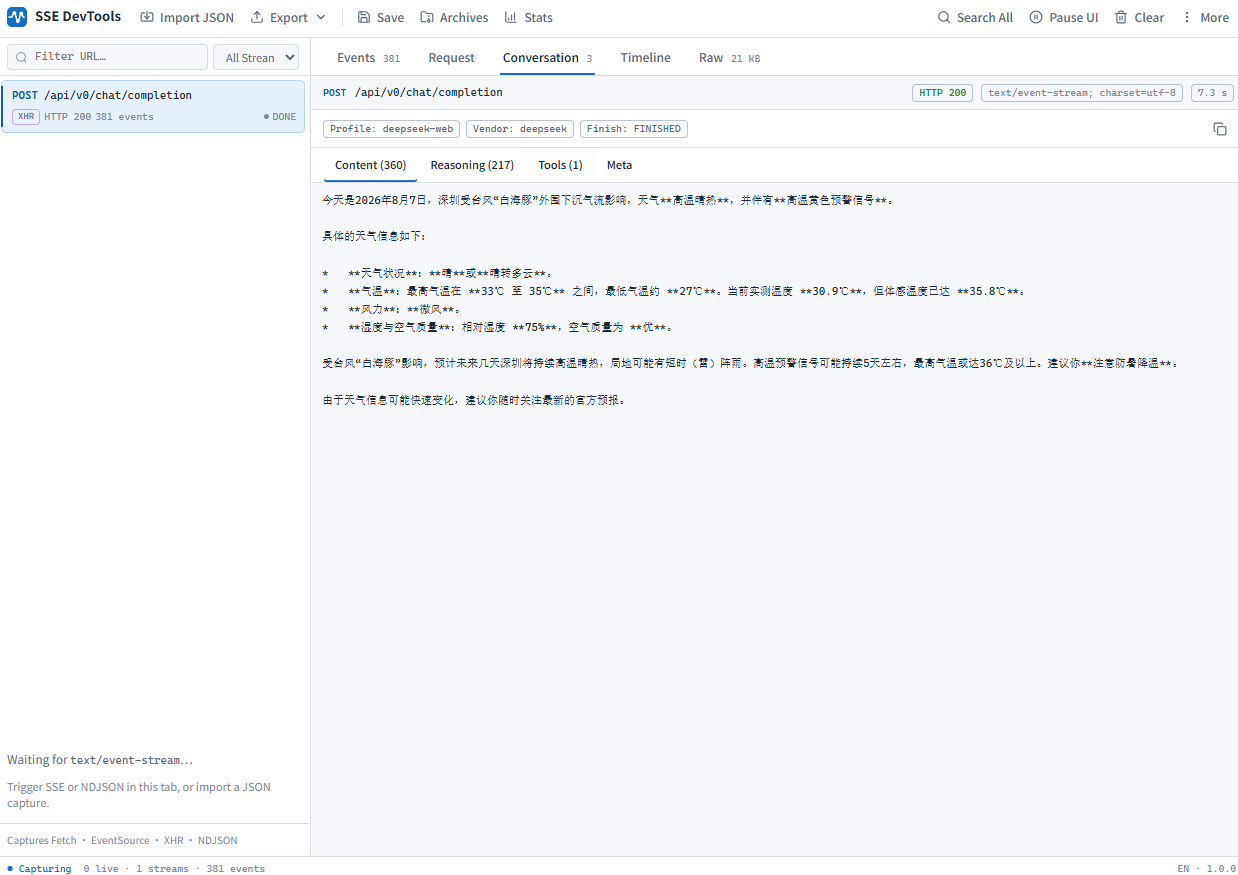
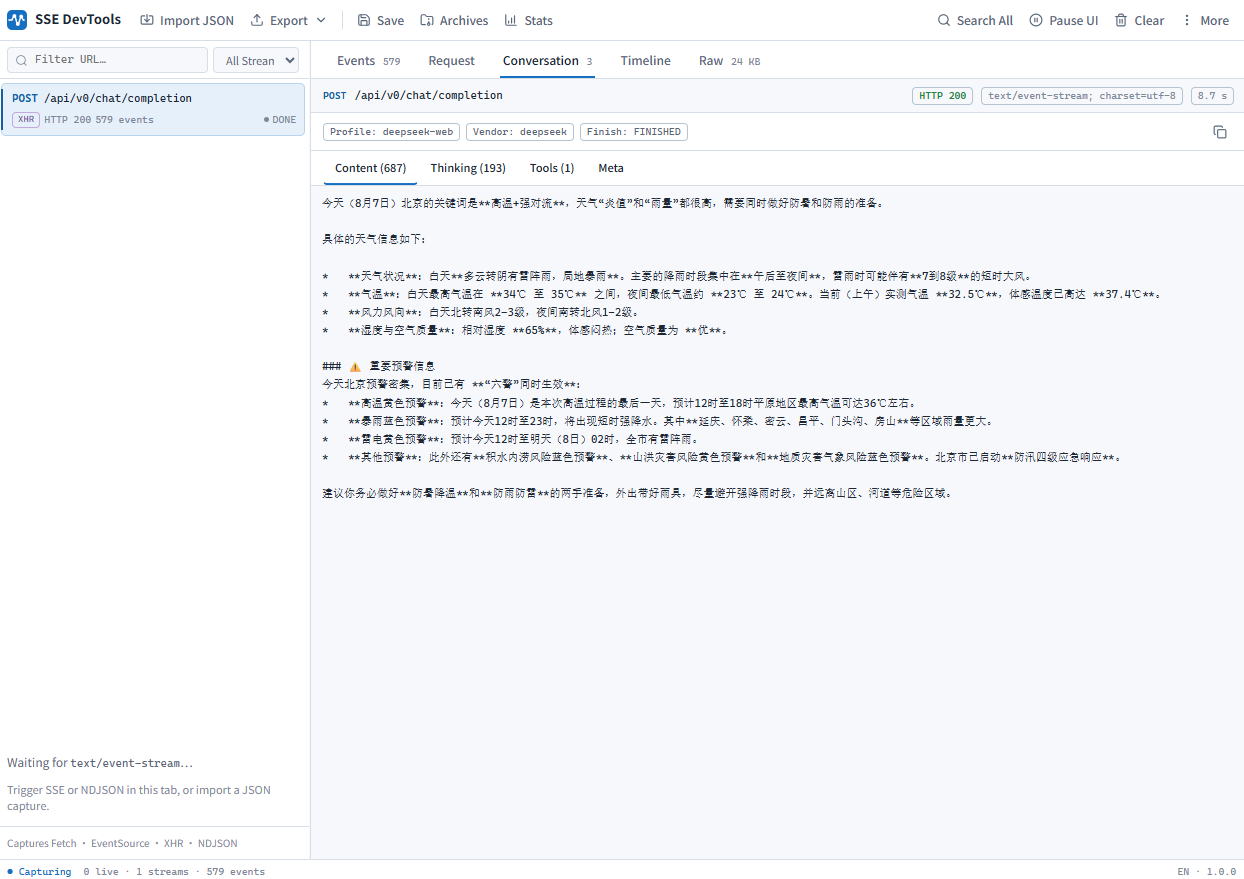
docs(readme): add Conversation think and tools screenshots
Split content / thinking / tools shots in README and refresh the screenshot checklist.

diff --git a/README.md b/README.md
@@ -177,18 +177,16 @@ Chrome Network 对**标准 SSE**已有请求详情里的 [EventStream](https://d
 - 国内主流 AI 网页与 OpenAI 兼容协议大多能合并（见下方[支持矩阵](#已支持的-ai-web-厂商)）
 
 <p align="center">
-  <img width="1200" alt="对话 正文 / 思考（待补图）" src="docs/assets/screenshots/tab-conversation-content.png">
+  <img width="1200" alt="对话正文" src="docs/assets/screenshots/tab-conversation-content.png">
 </p>
-
 
 <p align="center">
-  <img width="1200" alt="对话 工具 · 网页搜索（待补图）" src="docs/assets/screenshots/tab-conversation-tools.png">
+  <img width="1200" alt="对话思考" src="docs/assets/screenshots/tab-conversation-think.png">
 </p>
 
-> 📌 占位：`docs/assets/screenshots/tab-conversation-tools.png`  
-> 建议：展开后的「网页搜索」卡片（queries + 多条来源）
-
-
+<p align="center">
+  <img width="1200" alt="对话 工具 · 网页搜索" src="docs/assets/screenshots/tab-conversation-tools.png">
+</p>
 
 ## ⏱ Timeline
 

diff --git a/docs/assets/screenshots/README.md b/docs/assets/screenshots/README.md
@@ -8,7 +8,8 @@
 | `streams-sidebar.png`          | 左侧 Streams 列表 + 过滤                     |
 | `tab-events.png`               | Events 表 + JSON 树展开                      |
 | `tab-request.png`              | Request Headers / Payload                    |
-| `tab-conversation-content.png` | 对话正文 / 思考 Tab                          |
+| `tab-conversation-content.png` | 对话正文                                     |
+| `tab-conversation-think.png`   | 对话思考                                     |
 | `tab-conversation-tools.png`   | 网页搜索工具卡（queries + 来源）             |
 | `tab-timeline.png`             | Timeline 瀑布 + 直方图                       |
 | `dialog-stats.png`             | Stats 对话框                                 |
